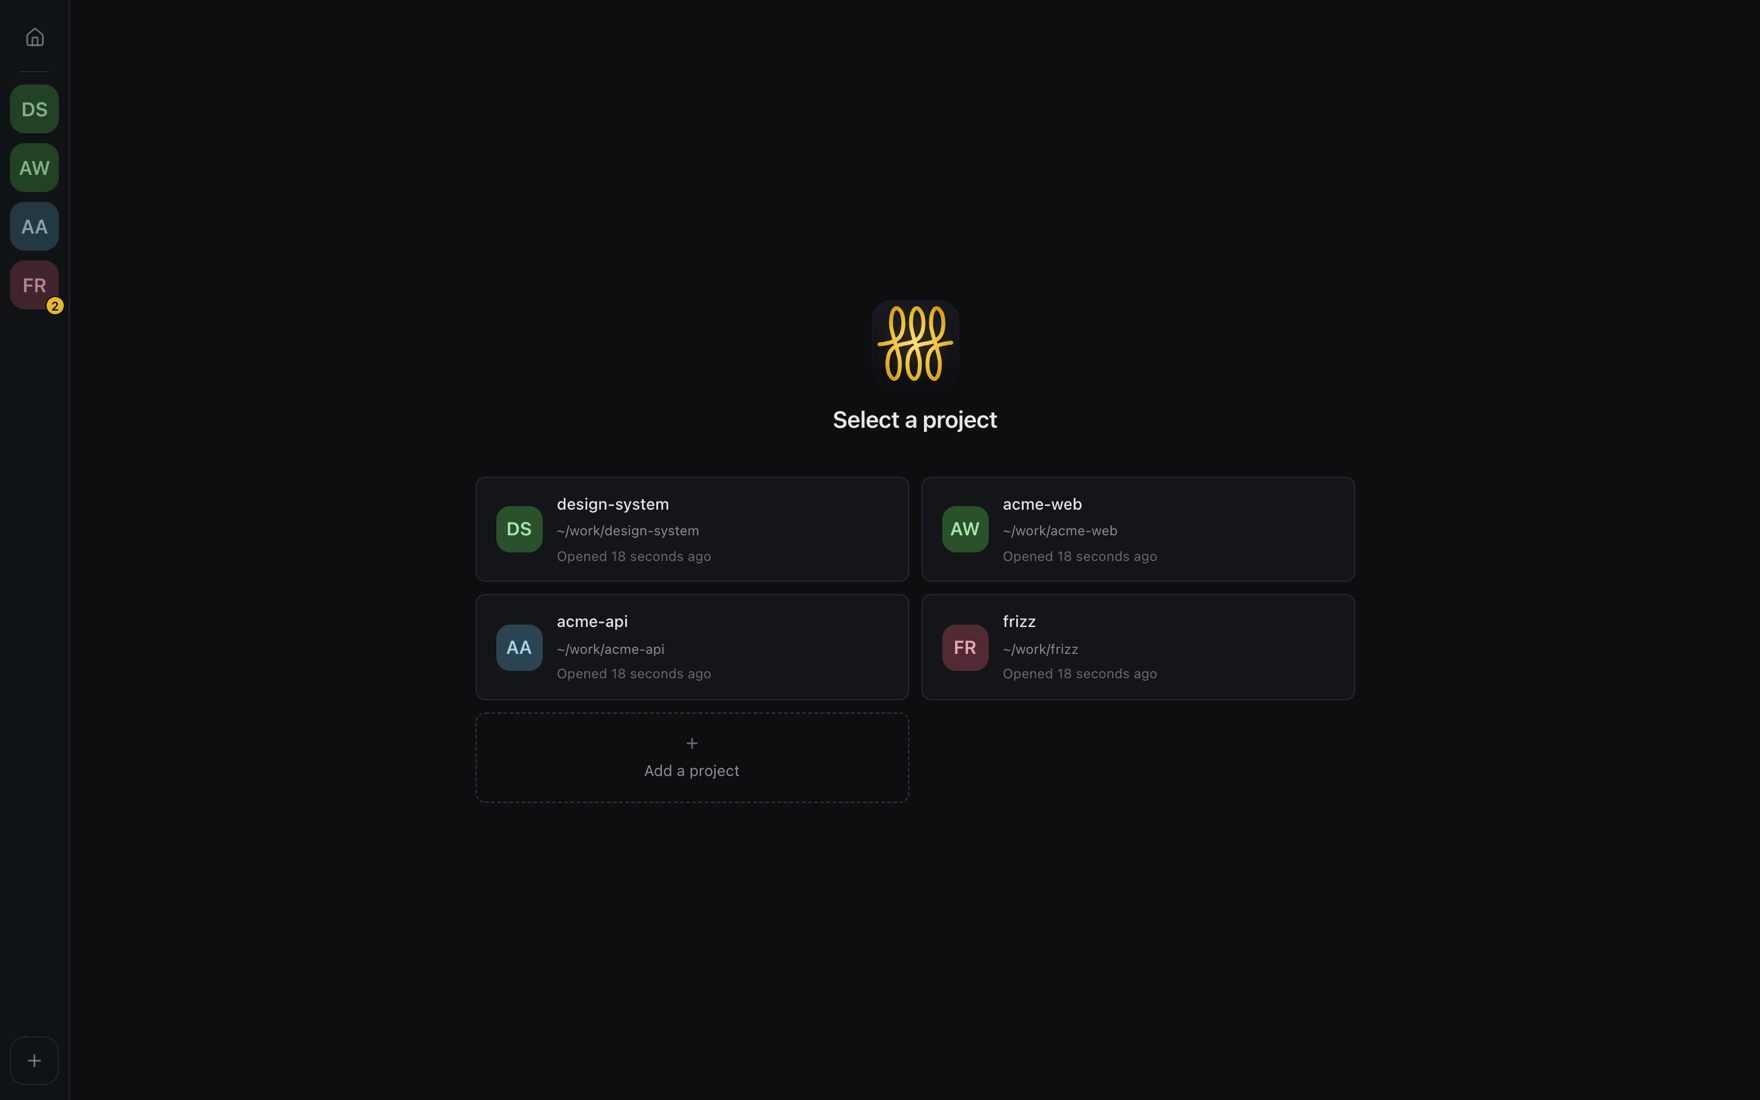
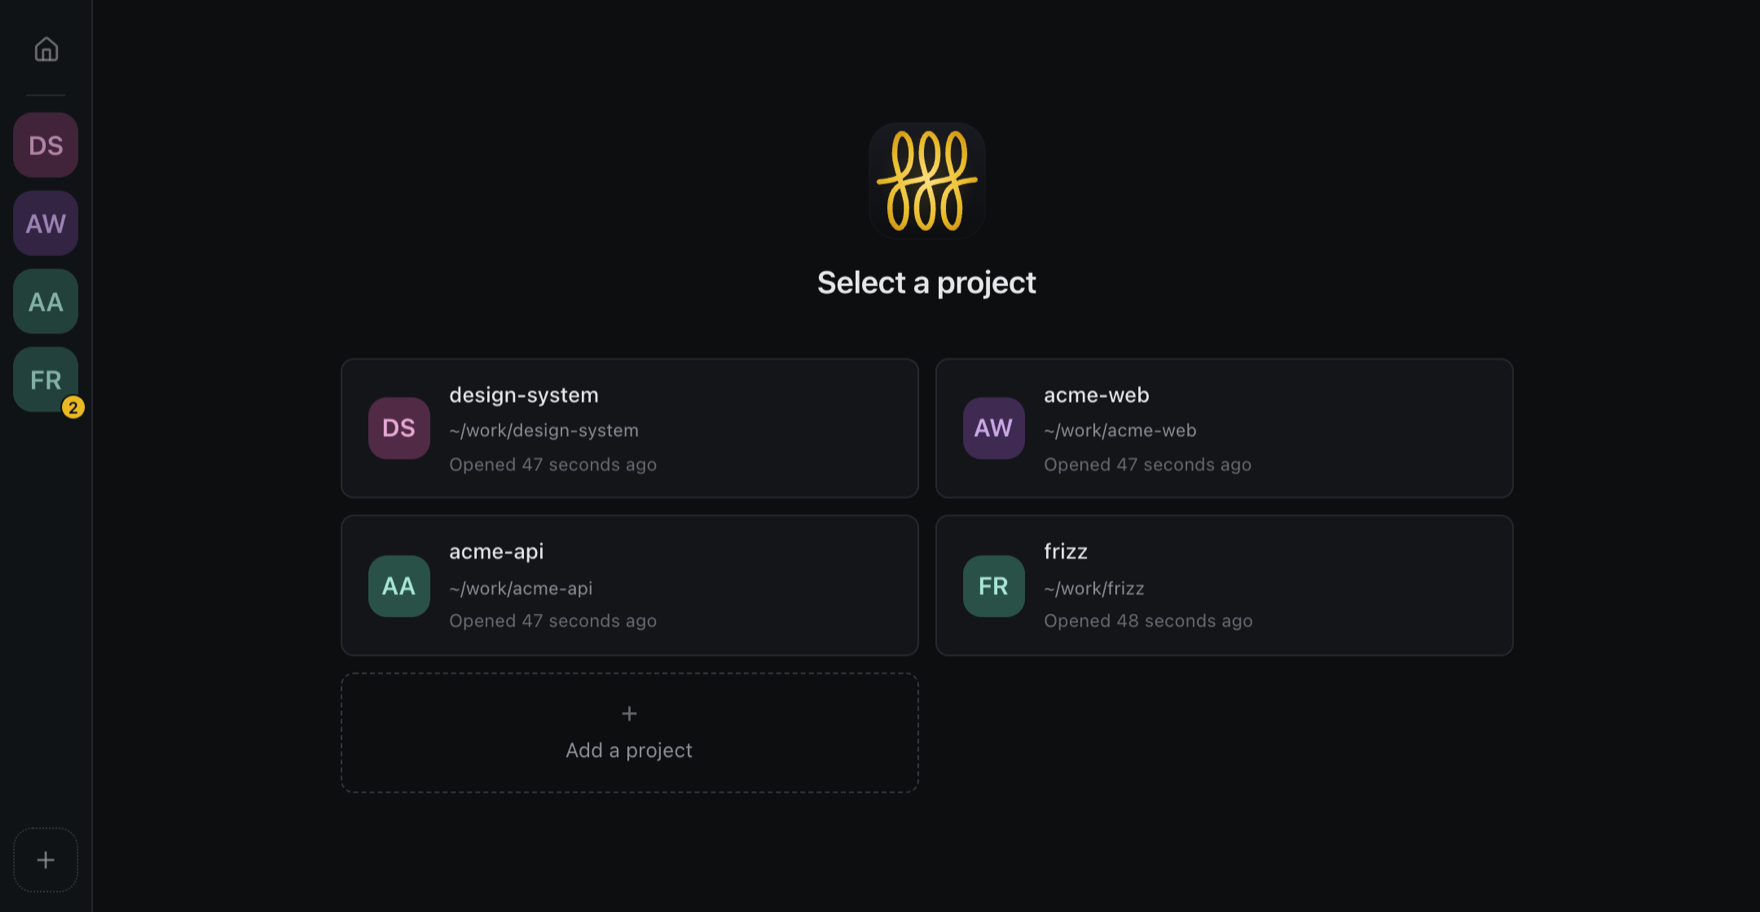
site, readme: the projects screenshot is framed to its content, not to a 1440x900 viewport

diff --git a/site/index.html b/site/index.html
@@ -83,7 +83,7 @@
             <p>Every directory you run it in becomes a project with its own board, all on one server. The home page lists them, and the rail down the left switches between them.</p>
           </div>
           <figure class="shot">
-            <img src="/img/projects.png?v=784328fc" width="1760" height="1053" loading="lazy" alt="The Frizz home page: a rail of project icons down the left, and four project cards with home-relative paths, plus an Add a project card." />
+            <img src="/img/projects.png?v=3939e6c6" width="1760" height="912" loading="lazy" alt="The Frizz home page: a rail of project icons down the left, and four project cards with home-relative paths, plus an Add a project card." />
           </figure>
         </div>
         <div class="row">
